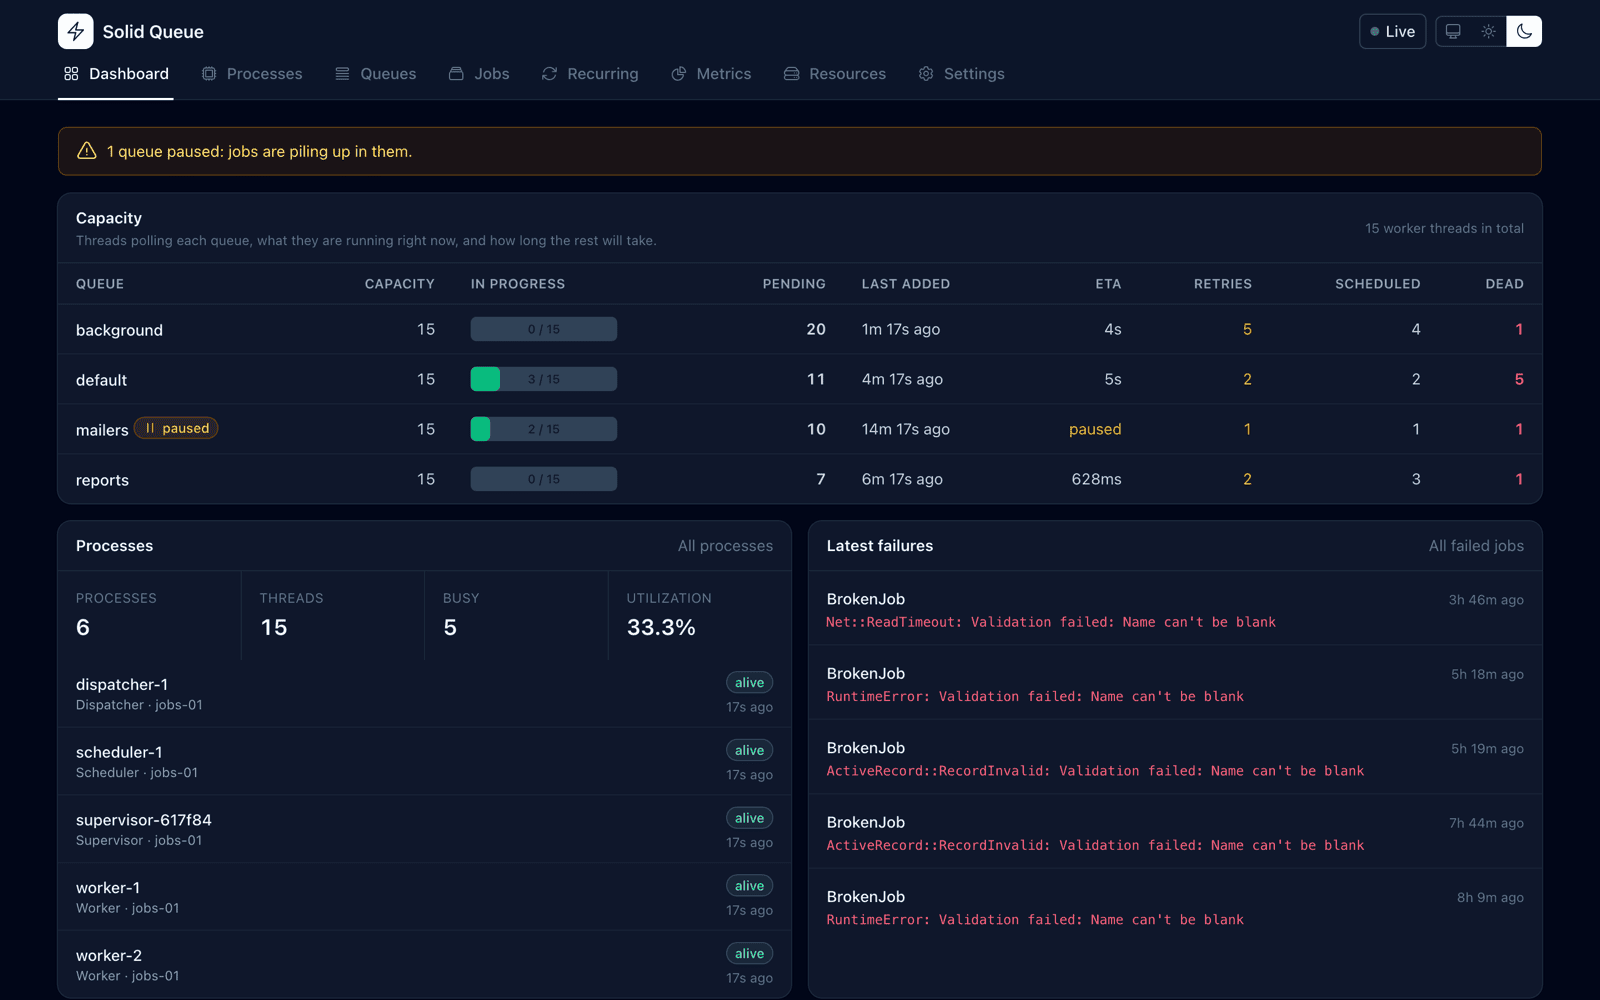
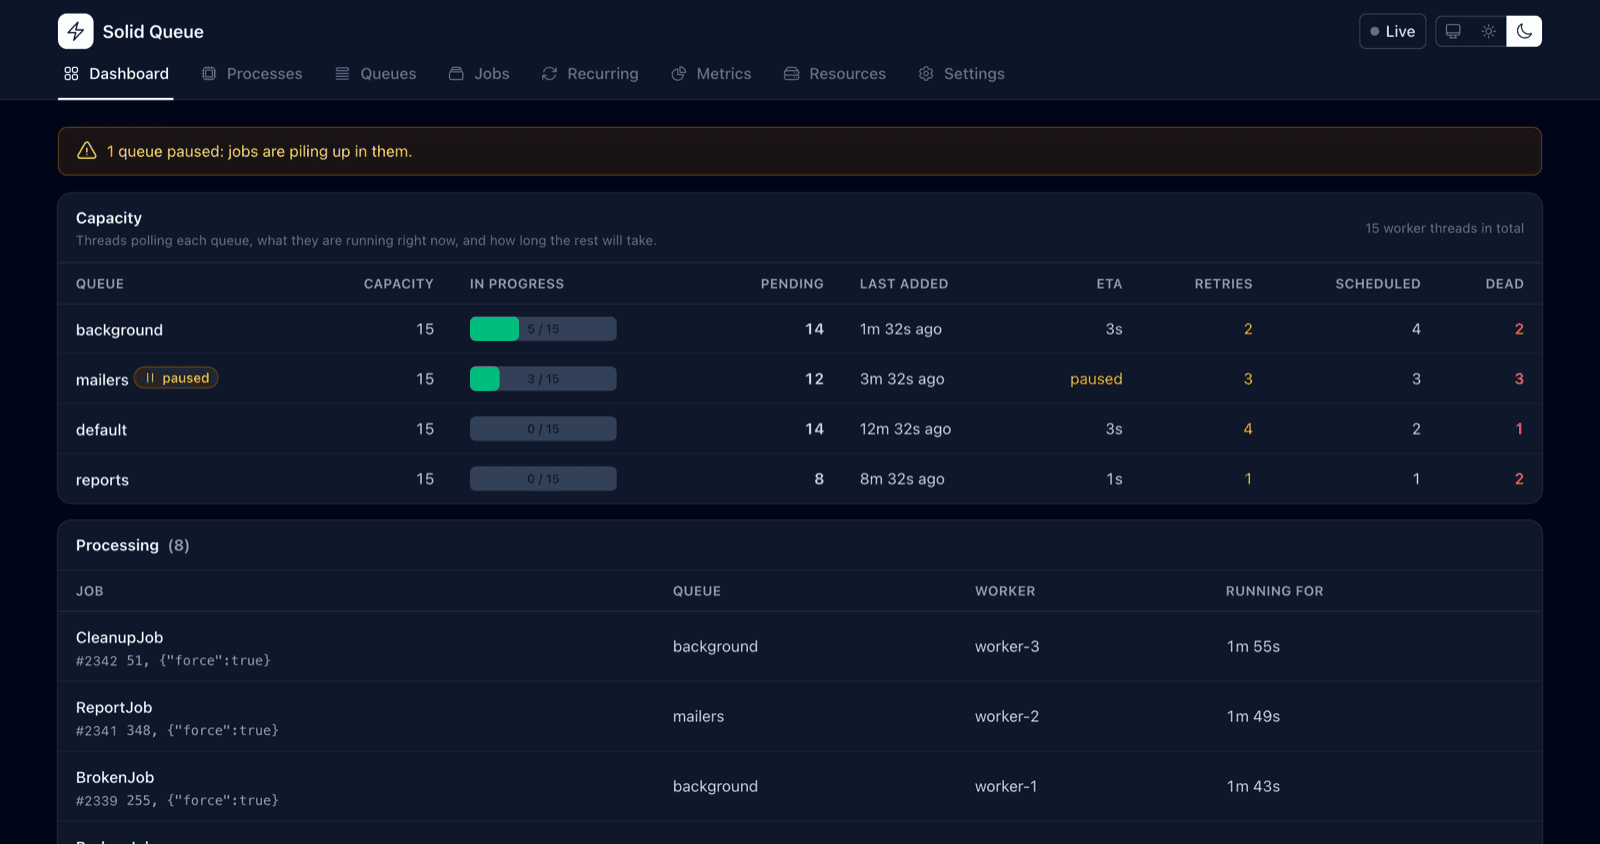
Show what is being processed right now on the dashboard
The processes summary and the failure list duplicated pages that are one click
away. In their place, a full width card lists every job a worker has claimed:
the class and its arguments, the queue, the worker running it and for how long,
which is the other half of the question the capacity table asks.

diff --git a/app/controllers/solid_queue_panel/dashboard_controller.rb b/app/controllers/solid_queue_panel/dashboard_controller.rb
@@ -2,21 +2,10 @@
 
 module SolidQueuePanel
   class DashboardController < ApplicationController
-    RECENT_FAILURES = 5
-
     def index
       @registry = ProcessRegistry.new
       @health = Health.new(overview: overview, registry: @registry)
       @capacity = QueueCapacity.new
-      @recent_failures = recent_failures
     end
-
-    private
-      def recent_failures
-        SolidQueue::Job.joins(:failed_execution)
-          .order(SolidQueue::FailedExecution.arel_table[:created_at].desc)
-          .limit(RECENT_FAILURES)
-          .preload(:failed_execution)
-      end
   end
 end

diff --git a/test/integration/pages_test.rb b/test/integration/pages_test.rb
@@ -21,7 +21,14 @@ class PagesTest < SolidQueuePanel::IntegrationTestCase
     assert_response :success
     assert_select "h2", text: /Capacity/
     assert_select "a", text: "reports"
-    assert_select "a", text: /BrokenJob/
+  end
+
+  test "dashboard lists the jobs being processed right now" do
+    get panel.root_path
+
+    assert_response :success
+    assert_select "h2", text: /Processing/
+    assert_select "a[href=?]", panel.job_path(@in_progress)
   end
 
   test "metrics page charts the throughput" do

diff --git a/README.md b/README.md
@@ -125,7 +125,7 @@ config.read_only = true   # hides and refuses retry, discard, pause, resume, cle
 
 | Page | What it shows |
 | --- | --- |
-| **Dashboard** | The [capacity table](#capacity-and-eta): for every queue, the threads that can work on it, what they are running right now, what is pending, when it was last added to, and when it will be empty — plus retries, scheduled and dead jobs. Along with alerts when something is silently wrong (no worker running, dead processes, paused queues, wrong Active Job adapter), the running processes and the latest failures. |
+| **Dashboard** | The [capacity table](#capacity-and-eta): for every queue, the threads that can work on it, what they are running right now, what is pending, when it was last added to, and when it will be empty — plus retries, scheduled and dead jobs. Along with every job being processed right now, and alerts when something is silently wrong: no worker running, dead processes, paused queues, a different Active Job adapter. |
 | **Processes** | Supervisors with their workers, dispatchers and schedulers: queues polled, thread pool size and how much of it is busy, polling interval, heartbeat, and every job currently running. Dead processes can be pruned from here. |
 | **Queues** | Per queue counters and a backlog bar broken down by state, plus latency — how long the oldest job has been waiting. Queues can be paused, resumed and cleared. |
 | **Queue detail** | The jobs of a single queue, filtered by state: the fastest way to answer "what is stuck in this queue?". |

diff --git a/CHANGELOG.md b/CHANGELOG.md
@@ -12,7 +12,8 @@ project adheres to [Semantic Versioning](https://semver.org/spec/v2.0.0.html).
 
 - Capacity table on the dashboard: threads polling each queue, what they are
   running, what is pending, when the queue was last added to, an ETA for the
-  backlog, and the retried, scheduled and dead jobs of each queue.
+  backlog, and the retried, scheduled and dead jobs of each queue. Underneath,
+  every job being processed at this moment.
 - Resources page: memory and CPU of every machine and every Solid Queue process
   over time, the resource cost of each job class, and advice on how many
   processes and threads the machine can take. Opt in with
